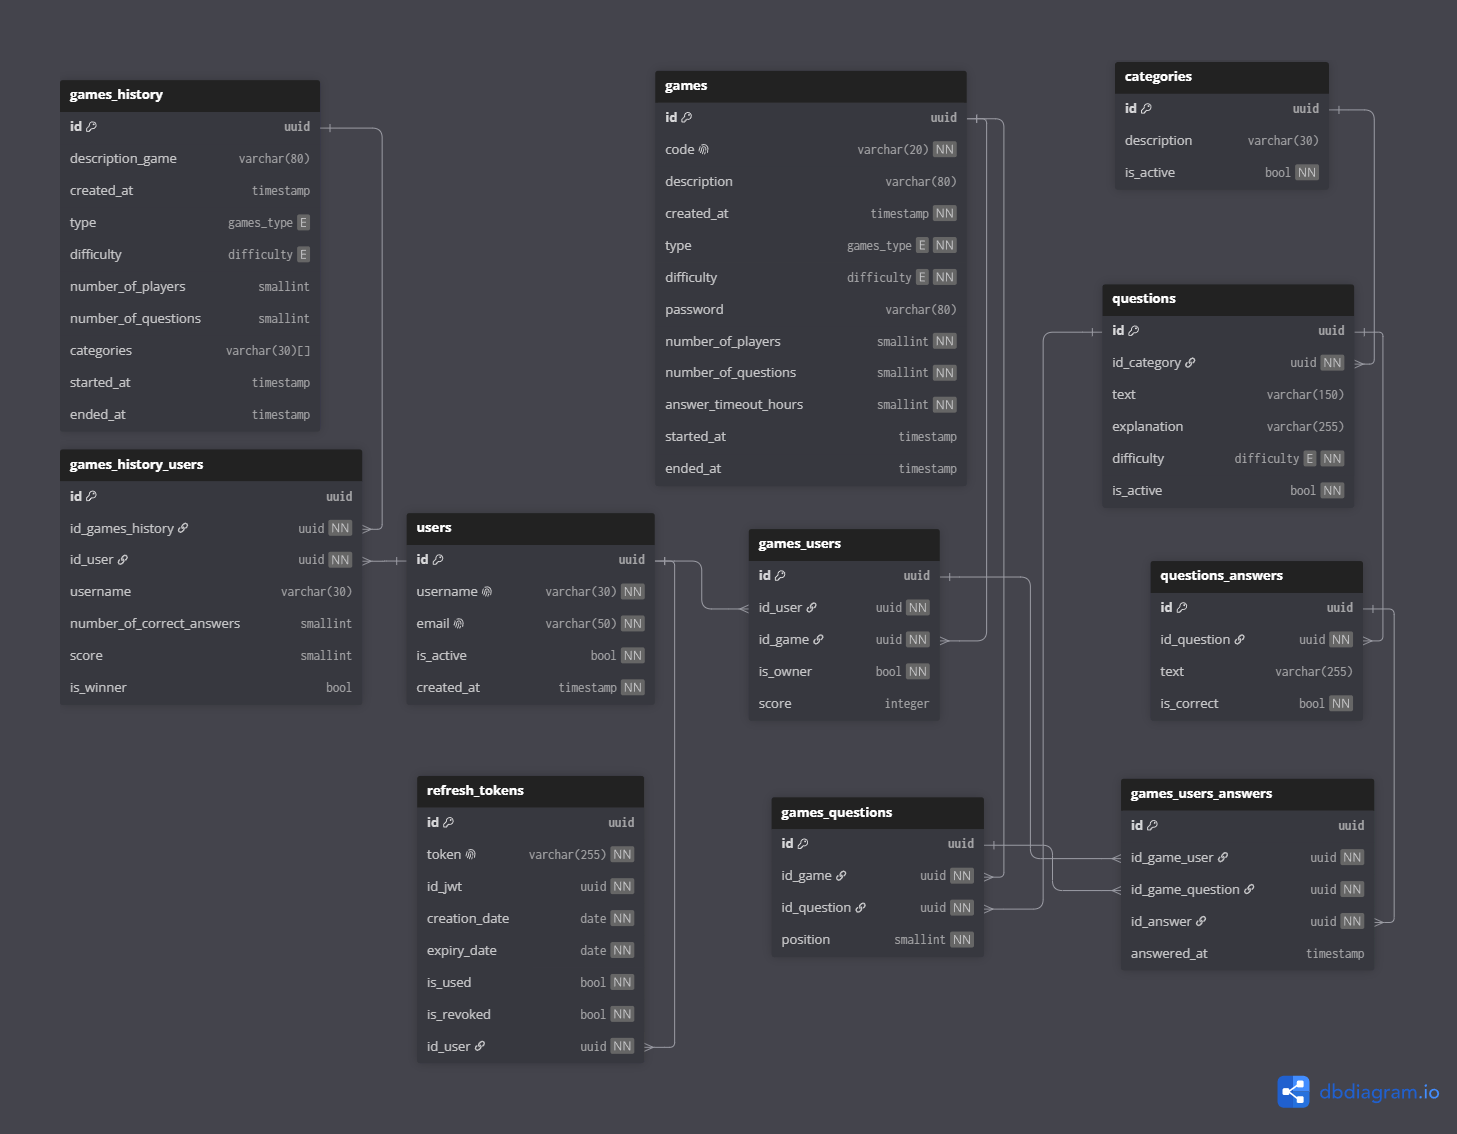
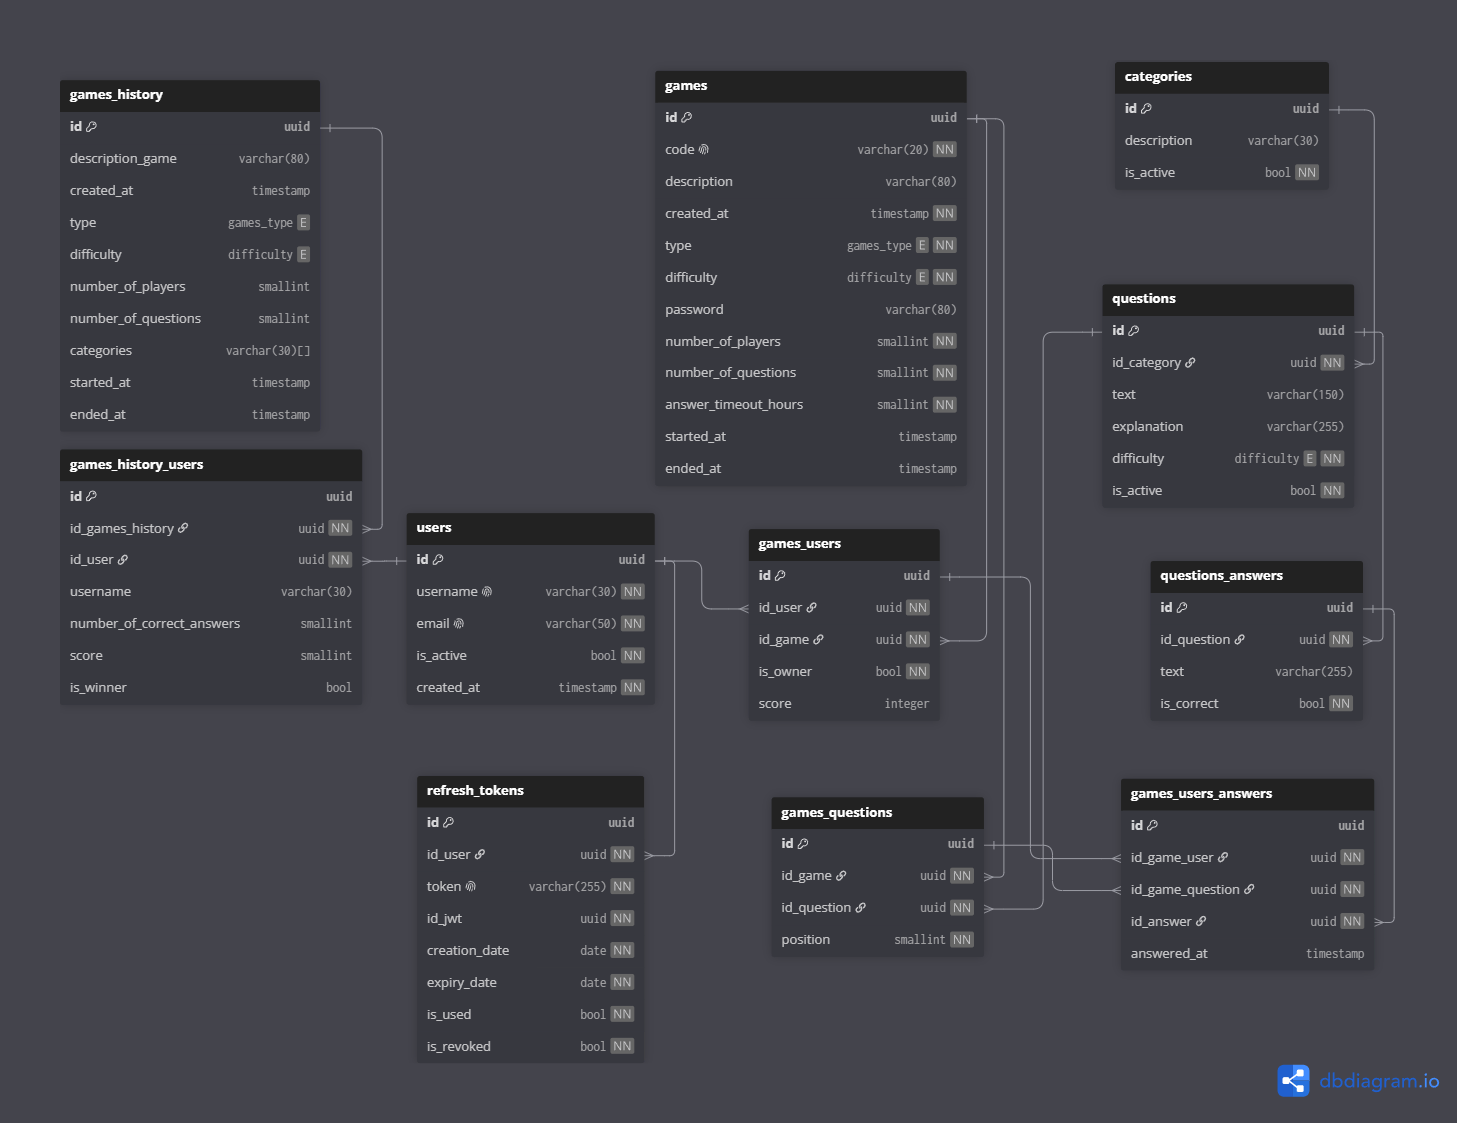
update database schema

diff --git a/docs/Database/schema.md b/docs/Database/schema.md
@@ -20,13 +20,13 @@ Table users {
 
 Table refresh_tokens {
   id uuid [pk]
+  id_user uuid [not null, ref: > users.id]
   token varchar(255) [not null, unique]
   id_jwt uuid [not null]
   creation_date date [not null]
   expiry_date date [not null]
   is_used bool [not null, default: false]
   is_revoked bool [not null, default: false]
-  id_user uuid [not null, ref: > users.id]
 }
 
 Table games {